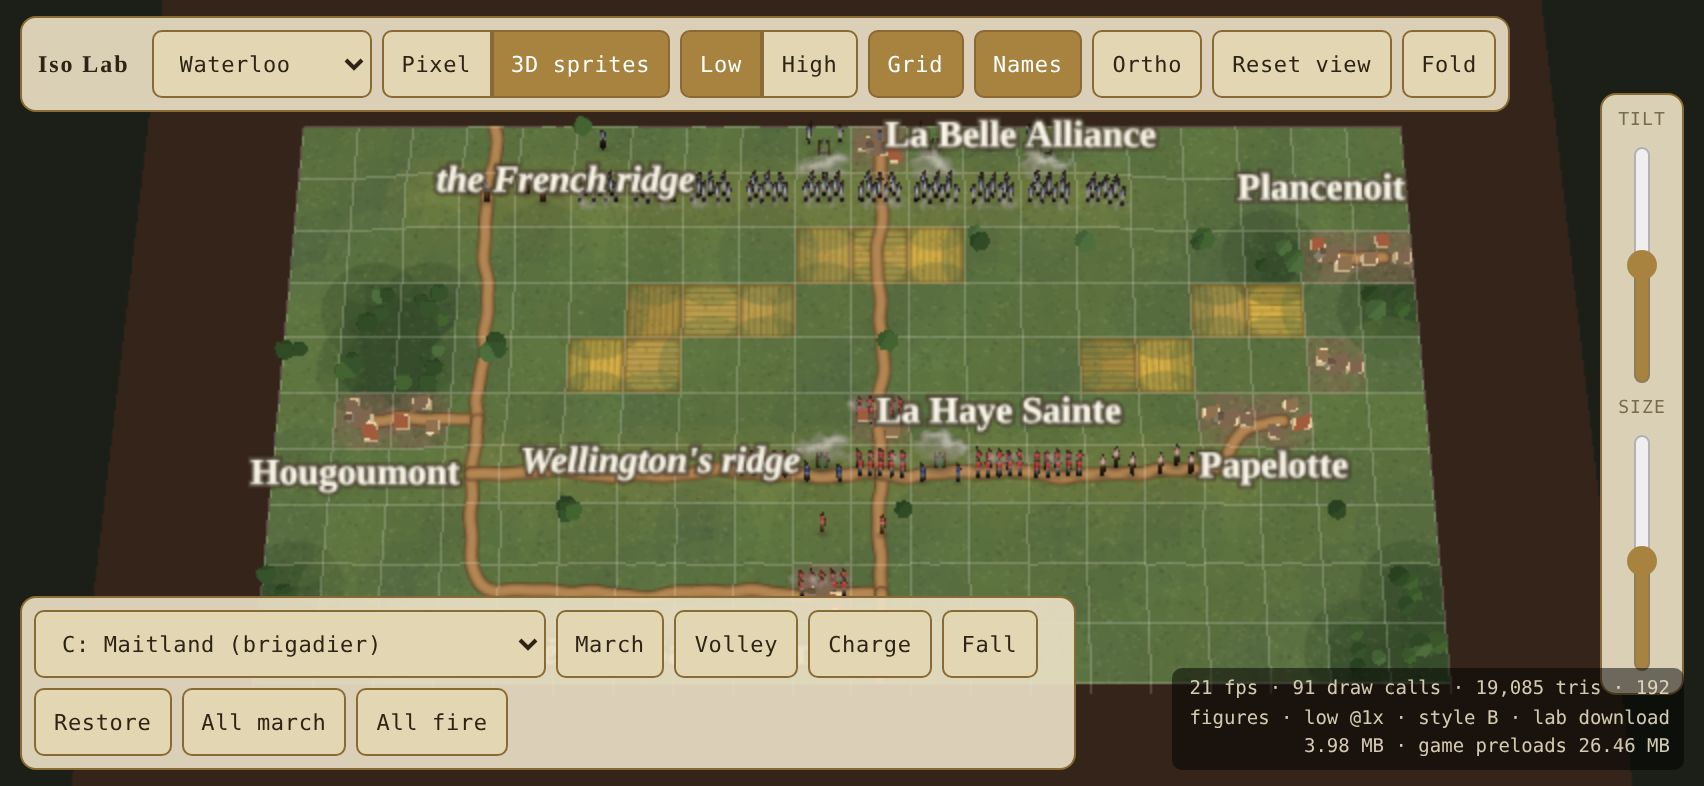
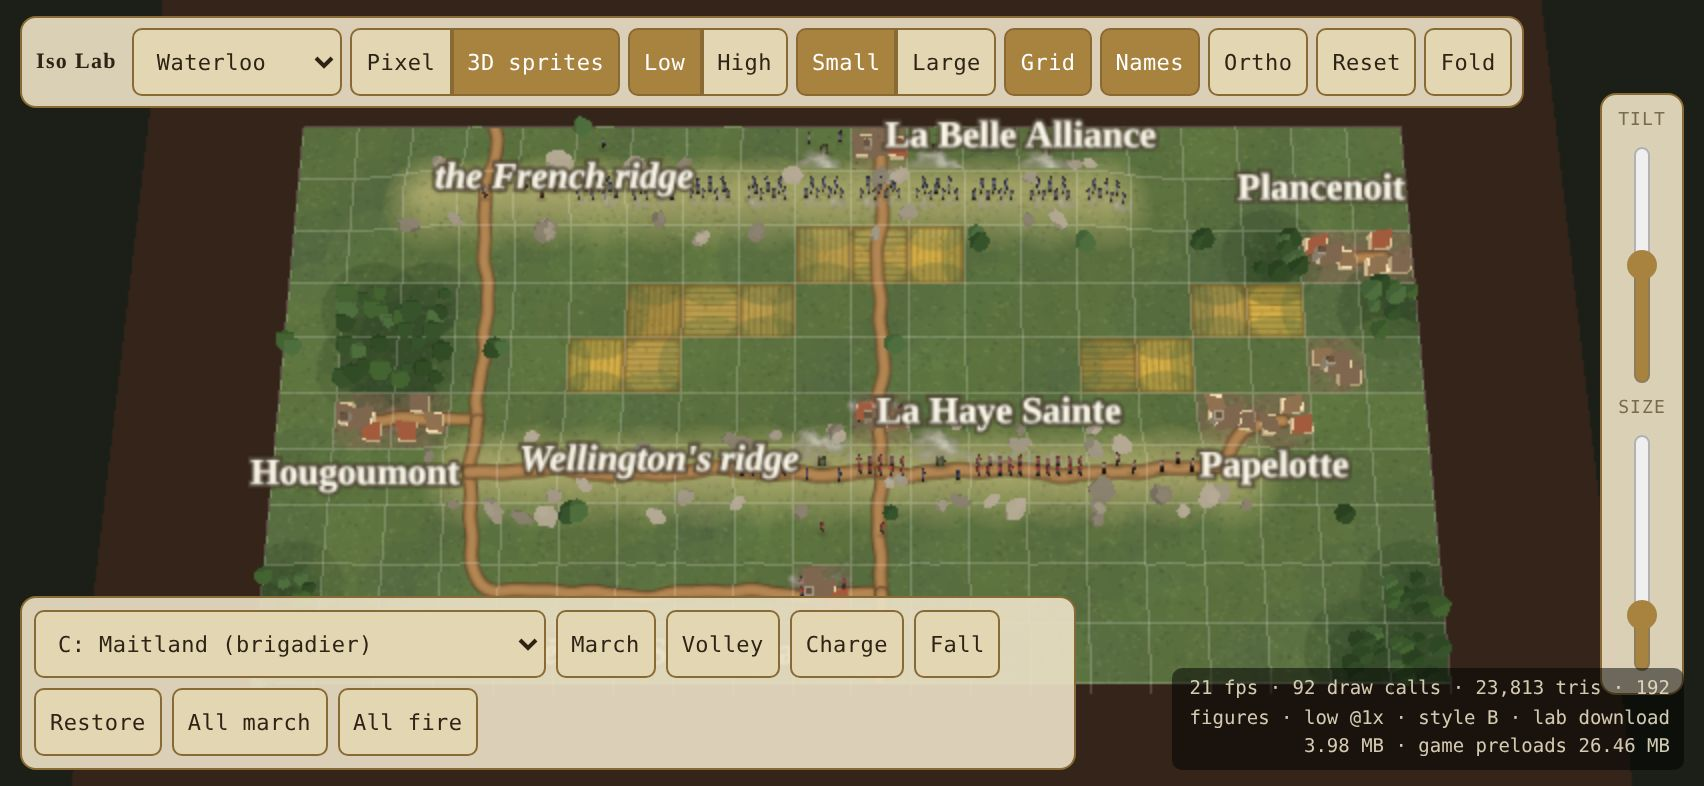
Iso Lab: small figures by default with a Large option; rivers, rocky hills, bigger houses, denser woods
Matthew's notes on the prototype (7 Nov 2026):
- Figures default to Small (lots of little men on the board); a Small/Large
  toggle in the top bar (Large is the board-game-piece size); the slider
  still sets anything between.
- Rivers: the channel is wider and deeper, the water brighter with a
  highlight, the banks heavier. (The lab draws the rivers the battle data
  carries: Ligny, Talavera and the Côa; Waterloo's map has none.)
- Hills: a higher rise with a narrower blur, so the slopes are steeper and
  read as hills; a paler, drier crown painted on the ground; grey rocky
  outcrops (instanced low-poly rocks) scattered where the slope is steep.
- Houses about a third larger, the church with them.
- Woods: nine trees a square on Low, fourteen on High (were four and seven).
- The top bar fits one row on a phone in landscape.

Checked headless: Ligny and Waterloo in both styles, no console errors;
Ligny 220 figures, 45 draw calls; screenshots refreshed in lab/screenshots.

Claude-Session: https://claude.ai/code/session_01T4sPEVcCAFLjfkTnAmggSj

diff --git a/lab/iso-world.js b/lab/iso-world.js
@@ -25,7 +25,8 @@ export const PALETTE = {
   woodsFloor: '#2d4126',
   village: '#6b5847',
   road: ROAD.STROKES,
-  river: { bank: 'rgba(72,58,34,0.8)', channel: '#3a4a3a', water: '#4f7a7c', ford: '#b9a56a' },
+  river: { bank: 'rgba(72,58,34,0.8)', channel: '#2e4448', water: '#5e9aa6', ford: '#b9a56a' },
+  rock: ['#8a8578', '#9a9486', '#767164'],
   canopy: ['#2f4a28', '#3a5a2e', '#2a4323', '#44633a'],
   trunk: '#4a3524',
   wall: ['#cbb996', '#bfae8c', '#d6c6a4'],
@@ -35,9 +36,9 @@ export const PALETTE = {
 };
 
 export const HS = 6;              // height-field subdivisions per square
-export const HILL_H = 0.5;        // a hill's rise, in squares
+export const HILL_H = 0.62;       // a hill's rise, in squares
 export const WATER_Y = -0.075;    // the water surface
-const RIVER_DEPTH = 0.16, FORD_DEPTH = 0.09, RIVER_HALF = 0.22;
+const RIVER_DEPTH = 0.2, FORD_DEPTH = 0.09, RIVER_HALF = 0.3;
 
 /* Seeded noise, so the same battle looks the same on every load. */
 function mulberry(seed){ let a = seed >>> 0; return () => { a = (a + 0x6D2B79F5) | 0; let t = Math.imul(a ^ (a >>> 15), 1 | a); t = (t + Math.imul(t ^ (t >>> 7), 61 | t)) ^ t; return ((t ^ (t >>> 14)) >>> 0) / 4294967296; }; }
@@ -96,7 +97,7 @@ export class Ground {
       mask[j * w + i] = T[y][x] === 'HILL' ? 1 : 0;
     }
     const R = HS, k = [];
-    for(let d = -R; d <= R; d++) k.push(Math.exp(-(d * d) / (2 * (R / 2.2) ** 2)));
+    for(let d = -R; d <= R; d++) k.push(Math.exp(-(d * d) / (2 * (R / 2.8) ** 2)));
     const ks = k.reduce((a, b) => a + b, 0);
     const tmp = new Float32Array(w * h);
     for(let j = 0; j < h; j++) for(let i = 0; i < w; i++){
@@ -128,6 +129,11 @@ export class Ground {
     const H = this.height, w = this.w;
     const a = H[j * w + i], b = H[j * w + i + 1], c = H[(j + 1) * w + i], d = H[(j + 1) * w + i + 1];
     return (a * (1 - tx) + b * tx) * (1 - tz) + (c * (1 - tx) + d * tx) * tz;
+  }
+  /* How steep the ground is at a point (rise per square). */
+  slopeAt(x, z){
+    const e = 0.08;
+    return Math.hypot(this.heightAt(x + e, z) - this.heightAt(x - e, z), this.heightAt(x, z + e) - this.heightAt(x, z - e)) / (2 * e);
   }
   geometry(){
     const { w, h, cols, rows } = this;
@@ -181,6 +187,13 @@ export function paintGround(){
     g.beginPath(); g.arc(x * P + P / 2, y * P + P / 2, P * 0.9, 0, Math.PI * 2); g.fill();
   }
   g.globalAlpha = 1;
+  // hills: paler, drier grass towards the crown, so the rise reads from above too
+  for(let y = 0; y < rows; y++) for(let x = 0; x < cols; x++){
+    if(T[y][x] !== 'HILL') continue;
+    const g2 = g.createRadialGradient(x * P + P / 2, y * P + P / 2, P * 0.15, x * P + P / 2, y * P + P / 2, P * 0.95);
+    g2.addColorStop(0, 'rgba(176,170,120,0.55)'); g2.addColorStop(1, 'rgba(176,170,120,0)');
+    g.fillStyle = g2; g.fillRect(x * P - P, y * P - P, 3 * P, 3 * P);
+  }
   // speckle
   for(let n = 0; n < cols * rows * 60; n++){
     const x = rnd() * c.width, y = rnd() * c.height;
@@ -219,10 +232,10 @@ export function paintGround(){
   if(water && water.spec){
     const pts = riverPoints(water.spec.course).map(([x, y]) => [x * P, y * P]);   // line coordinates: the grid lines are at whole numbers
     const path = () => { g.beginPath(); pts.forEach(([x, y], i) => i ? g.lineTo(x, y) : g.moveTo(x, y)); };
-    for(const [wd, col] of [[0.62, PALETTE.river.bank], [0.5, '#4d5a3a'], [0.4, PALETTE.river.channel], [0.26, '#2f4040']]){ path(); g.lineWidth = wd * P; g.strokeStyle = col; g.stroke(); }
+    for(const [wd, col] of [[0.8, PALETTE.river.bank], [0.66, '#5a6640'], [0.56, PALETTE.river.channel], [0.4, '#263a3e']]){ path(); g.lineWidth = wd * P; g.strokeStyle = col; g.stroke(); }
     for(const [x0, x1, y0, y1] of (water.spec.fords || [])){
       g.save(); g.beginPath(); g.rect(x0 * P, y0 * P, (x1 - x0) * P, (y1 - y0) * P); g.clip();
-      path(); g.lineWidth = 0.44 * P; g.strokeStyle = PALETTE.river.ford; g.stroke();
+      path(); g.lineWidth = 0.6 * P; g.strokeStyle = PALETTE.river.ford; g.stroke();
       for(let n = 0; n < 60; n++){ g.fillStyle = rnd() < 0.5 ? 'rgba(90,80,50,0.5)' : 'rgba(230,220,180,0.6)'; const i = Math.floor(rnd() * pts.length); g.fillRect(pts[i][0] + (rnd() - 0.5) * P * 0.4, pts[i][1] + (rnd() - 0.5) * P * 0.4, 2, 2); }
       g.restore();
     }
@@ -266,7 +279,7 @@ export function buildWorld(scene, quality){
 
   // the water: one plane, seen only in the channels the ground is cut below it
   if(state.water && state.water.spec){
-    const wm = new THREE.MeshPhongMaterial({ color: lin(PALETTE.river.water), transparent: true, opacity: 0.72, shininess: 60, specular: lin('#aaccbb') });
+    const wm = new THREE.MeshPhongMaterial({ color: lin(PALETTE.river.water), transparent: true, opacity: 0.8, shininess: 90, specular: lin('#cfe6e0'), emissive: lin('#1a3a44') });
     const wp = new THREE.Mesh(new THREE.PlaneGeometry(COLS, ROWS), wm);
     wp.rotation.x = -Math.PI / 2; wp.position.set(COLS / 2, WATER_Y, ROWS / 2);
     scene.add(wp); out.props.push(wp); out.water = wp;
@@ -278,8 +291,8 @@ export function buildWorld(scene, quality){
   const trees = [];
   for(let y = 0; y < ROWS; y++) for(let x = 0; x < COLS; x++){
     if(T[y][x] === 'WOODS'){
-      const n = quality === 'high' ? 7 : 4;
-      for(let k = 0; k < n; k++) trees.push({ x: x + 0.12 + rnd() * 0.76, z: y + 0.12 + rnd() * 0.76, s: 0.75 + rnd() * 0.5 });
+      const n = quality === 'high' ? 14 : 9;
+      for(let k = 0; k < n; k++) trees.push({ x: x + 0.06 + rnd() * 0.88, z: y + 0.06 + rnd() * 0.88, s: 0.7 + rnd() * 0.6 });
     } else if(T[y][x] === 'OPEN' && picks[y][x].detail >= 0 && picks[y][x].detail < 6){
       // the oaks: single, pair or trio, kept to a corner so the square's middle is clear for units
       const n = 1 + (picks[y][x].detail % 3);
@@ -305,6 +318,32 @@ export function buildWorld(scene, quality){
     scene.add(canopies, trunks); out.props.push(canopies, trunks);
   }
 
+  // rocky outcrops where the hills' slopes are steep
+  const rocks = [];
+  for(let y = 0; y < ROWS; y++) for(let x = 0; x < COLS; x++){
+    const nearHill = [[0, 0], [1, 0], [-1, 0], [0, 1], [0, -1]].some(([a, b]) => T[y + b] && T[y + b][x + a] === 'HILL');
+    if(!nearHill) continue;
+    const n = quality === 'high' ? 10 : 7;
+    for(let k = 0; k < n; k++){
+      const px = x + rnd(), pz = y + rnd();
+      const sl = ground.slopeAt(px, pz);
+      if(sl < 0.42 || rnd() > (sl - 0.3)) continue;
+      rocks.push({ x: px, z: pz, s: 0.05 + rnd() * 0.07 + sl * 0.06 });
+    }
+  }
+  if(rocks.length){
+    const rockGeo = new THREE.DodecahedronGeometry(1, 0);
+    const rm = new THREE.InstancedMesh(rockGeo, toon({ color: '#ffffff' }), rocks.length);
+    const m = new THREE.Matrix4(), q = new THREE.Quaternion(), v = new THREE.Vector3(), sc = new THREE.Vector3(), col = new THREE.Color();
+    rocks.forEach((r, i) => {
+      q.setFromEuler(new THREE.Euler(rnd() * 3, rnd() * 3, rnd() * 3));
+      m.compose(v.set(r.x, ground.heightAt(r.x, r.z) + r.s * 0.3, r.z), q, sc.set(r.s * (1 + rnd()), r.s, r.s * (1 + rnd()))); rm.setMatrixAt(i, m);
+      rm.setColorAt(i, col.set(PALETTE.rock[i % PALETTE.rock.length]).convertSRGBToLinear());
+    });
+    rm.castShadow = quality === 'high';
+    scene.add(rm); out.props.push(rm);
+  }
+
   // villages: cottages on every building square, and a church on the first square of each village
   const houses = [], churches = [];
   const seenVillage = new Set();
@@ -316,7 +355,7 @@ export function buildWorld(scene, quality){
     const n = joined ? 3 : 2;
     for(let k = 0; k < n; k++){
       const ang = (k / n) * Math.PI * 2 + rnd();
-      houses.push({ x: x + 0.5 + Math.cos(ang) * 0.3, z: y + 0.5 + Math.sin(ang) * 0.28, r: rnd() < 0.5 ? 0 : Math.PI / 2, w: 0.22 + rnd() * 0.1, d: 0.16 + rnd() * 0.06, h: 0.12 + rnd() * 0.05 });
+      houses.push({ x: x + 0.5 + Math.cos(ang) * 0.3, z: y + 0.5 + Math.sin(ang) * 0.28, r: rnd() < 0.5 ? 0 : Math.PI / 2, w: 0.3 + rnd() * 0.12, d: 0.22 + rnd() * 0.08, h: 0.16 + rnd() * 0.06 });
     }
     if(!joined) churches.push({ x: x + 0.5, z: y + 0.5 });
   }
@@ -341,14 +380,14 @@ export function buildWorld(scene, quality){
   for(const ch of churches){
     const gh = ground.heightAt(ch.x, ch.z);
     const grp = new THREE.Group();
-    const nave = new THREE.Mesh(new THREE.BoxGeometry(0.34, 0.16, 0.2), toon({ color: PALETTE.wall[2] }));
-    nave.position.y = 0.08;
+    const nave = new THREE.Mesh(new THREE.BoxGeometry(0.44, 0.2, 0.26), toon({ color: PALETTE.wall[2] }));
+    nave.position.y = 0.1;
     const roof = new THREE.Mesh(new THREE.CylinderGeometry(0, 0.17, 0.1, 4, 1), toon({ color: PALETTE.roof[1] }));
-    roof.rotation.y = Math.PI / 4; roof.scale.set(1.6, 1, 1); roof.position.y = 0.21;
-    const tower = new THREE.Mesh(new THREE.BoxGeometry(0.12, 0.3, 0.12), toon({ color: PALETTE.stone }));
-    tower.position.set(-0.17, 0.15, 0);
+    roof.rotation.y = Math.PI / 4; roof.scale.set(2.0, 1.2, 1.3); roof.position.y = 0.26;
+    const tower = new THREE.Mesh(new THREE.BoxGeometry(0.15, 0.4, 0.15), toon({ color: PALETTE.stone }));
+    tower.position.set(-0.22, 0.2, 0);
     const spire = new THREE.Mesh(new THREE.ConeGeometry(0.085, 0.16, 4), toon({ color: '#5a4a3a' }));
-    spire.position.set(-0.17, 0.38, 0); spire.rotation.y = Math.PI / 4;
+    spire.position.set(-0.22, 0.48, 0); spire.rotation.y = Math.PI / 4;
     grp.add(nave, roof, tower, spire);
     grp.traverse(o => { if(o.isMesh) o.castShadow = quality === 'high'; });
     grp.position.set(ch.x, gh, ch.z);

diff --git a/lab/iso.html b/lab/iso.html
@@ -21,7 +21,7 @@
   #side label{font-size:9px;color:var(--ink-dim);letter-spacing:.06em;}
   #side input[type=range]{writing-mode:vertical-lr;direction:rtl;height:120px;width:24px;accent-color:var(--brass);}
   button,select{font-family:'IBM Plex Mono',monospace;font-size:11px;border:1px solid var(--brass-dim);background:var(--paper);color:var(--ink);
-    padding:7px 9px;cursor:pointer;letter-spacing:.03em;border-radius:5px;min-height:34px;}
+    padding:7px 7px;cursor:pointer;letter-spacing:.02em;border-radius:5px;min-height:34px;}
   button.on{background:var(--brass);color:#fff;}
   button:active{transform:translateY(1px);}
   .seg{display:inline-flex;} .seg button{border-radius:0;} .seg button:first-child{border-radius:5px 0 0 5px;} .seg button:last-child{border-radius:0 5px 5px 0;}
@@ -31,7 +31,8 @@
   #note{position:fixed;left:50%;top:50%;transform:translate(-50%,-50%);z-index:6;font-size:12px;color:var(--paper);background:rgba(0,0,0,.6);
     padding:8px 12px;border-radius:6px;pointer-events:none;max-width:70vw;text-align:center;}
   #note:empty{display:none;}
-  h1{font-family:'Cinzel',serif;font-size:12px;margin:0 6px 0 2px;letter-spacing:.08em;}
+  h1{font-family:'Cinzel',serif;font-size:11px;margin:0 4px 0 2px;letter-spacing:.06em;}
+  #top{gap:4px;padding:5px;}
   body.folded #bottom, body.folded #side{display:none;}
   #stand-ins{display:none;}
   select{max-width:40vw;} #unit{max-width:30vw;}
@@ -44,17 +45,18 @@
   <select id="battle" aria-label="Battle"></select>
   <span class="seg"><button data-style="A" class="on" title="The game's pixel figures">Pixel</button><button data-style="B" title="Sprites rendered from 3D models">3D sprites</button></span>
   <span class="seg"><button data-quality="low" class="on">Low</button><button data-quality="high">High</button></span>
+  <span class="seg" title="Figure size"><button data-size="small" class="on">Small</button><button data-size="large">Large</button></span>
   <button id="grid" class="on">Grid</button>
   <button id="labels" class="on">Names</button>
   <button id="ortho">Ortho</button>
-  <button id="reset">Reset view</button>
+  <button id="reset">Reset</button>
   <button id="fold" title="Hide the other controls">Fold</button>
 </div>
 <div id="side" class="bar">
   <label>TILT</label>
   <input id="tilt" type="range" min="25" max="80" value="52" aria-label="Camera tilt">
   <label>SIZE</label>
-  <input id="size" type="range" min="30" max="100" value="62" aria-label="Figure size">
+  <input id="size" type="range" min="25" max="100" value="40" aria-label="Figure size">
 </div>
 <div id="bottom" class="bar">
   <select id="unit" aria-label="Unit"></select>

diff --git a/lab/iso.js b/lab/iso.js
@@ -11,7 +11,7 @@ import { COLS, ROWS, state } from '../js/data-core.js';
 import { setupOperation } from '../js/operations.js';
 import { setFastAnimationMode } from '../js/render-board.js';
 import { buildWorld, WATER_Y } from './iso-world.js';
-import { Army, SETTINGS } from './iso-figures.js';
+import { Army, SETTINGS, SIZES } from './iso-figures.js';
 import { OrbitRig } from './iso-camera.js';
 
 const THREE = globalThis.THREE;
@@ -114,7 +114,8 @@ function bindUI(){
   $('ortho').onclick = () => { app.rig.orthographic = !app.rig.orthographic; $('ortho').classList.toggle('on', app.rig.orthographic); resize(); };
   $('reset').onclick = () => { app.rig.reset(); $('tilt').value = Math.round(app.rig.pitch * 180 / Math.PI); };
   $('tilt').oninput = () => app.rig.tiltTo(Number($('tilt').value));
-  $('size').oninput = () => { SETTINGS.size = Number($('size').value) / 100; };
+  $('size').oninput = () => { SETTINGS.size = Number($('size').value) / 100; document.querySelectorAll('[data-size]').forEach(x => x.classList.remove('on')); };
+  for(const b of document.querySelectorAll('[data-size]')) b.onclick = () => { SETTINGS.size = SIZES[b.dataset.size]; $('size').value = Math.round(SETTINGS.size * 100); document.querySelectorAll('[data-size]').forEach(x => x.classList.toggle('on', x === b)); };
   $('march').onclick = () => { const u = chosen(); if(u) app.army.march(u, 1); };
   $('volley').onclick = () => { const u = chosen(); if(u) app.army.volley(u); };
   $('charge').onclick = () => { const u = chosen(); if(u) app.army.march(u, 2, true); };

diff --git a/lab/iso-figures.js b/lab/iso-figures.js
@@ -18,7 +18,9 @@ import { NATIONS, DEFAULT_NATIONS } from '../js/nations.js';
 const THREE = globalThis.THREE;
 const MAX_FIGURES = 1200;
 const GAME_SCALE = 1.25;     // render-figures FIGURE_SCALE
-export const SETTINGS = { size: 0.62, stand: 0.3, variants: 2 };
+/* Figure size: 'small' (lots of little men, the default) or 'large' (board game pieces); the slider sets anything between. */
+export const SIZES = { small: 0.4, large: 0.9 };
+export const SETTINGS = { size: SIZES.small, stand: 0.3, variants: 2 };
 const MEN = { INFANTRY: 10, GUARD: 10, LIGHT_CAV: 3, HEAVY_CAV: 3, ARTILLERY: 2, BRIGADIER: 1 };
 const FOOT = t => t === 'INFANTRY' || t === 'GUARD';
 const kind = u => (UNIT_TYPES[u.type] || {}).key;
